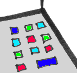
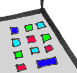
Das blinken lights

diff --git a/gamelib/scenes/bridge.py b/gamelib/scenes/bridge.py
@@ -1,10 +1,12 @@
 """Bridge where the final showdown with the AI occurs."""
 
+import random
+
 from albow.music import change_playlist, get_music, PlayList
 
 from gamelib.cursor import CursorSprite
 from gamelib.state import Scene, Item, Thing, Result, InteractText, \
-                          InteractNoImage, InteractRectUnion
+                          InteractNoImage, InteractRectUnion, InteractAnimated
 from gamelib.statehelpers import GenericDescThing
 from gamelib.scenes.scene_widgets import Door
 
@@ -35,6 +37,8 @@ class Bridge(Scene):
         self.add_thing(MassageChair())
         self.add_thing(StethoscopeThing())
         self.add_thing(BridgeComputer())
+        self.add_thing(LeftLights())
+        self.add_thing(RightLights())
 
     def enter(self):
         pieces = [get_music(x, prefix='sounds') for x in self.MUSIC]
@@ -159,6 +163,37 @@ class SuperconductorThing(Thing):
         self.scene.remove_thing(self)
         return Result("You pick up the stethoscope and verify that the doctor's "
                       "heart has stoped. Probably a while ago.")
+
+class BlinkingLights(Thing):
+
+    def get_description(self):
+        return random.choice([
+            "The lights flash in interesting patterns.",
+            "The flashing lights don't mean anything to you",
+            "The console lights flash and flicker",
+            ])
+
+class LeftLights(BlinkingLights):
+
+    NAME ='bridge.lights.1'
+
+    INTERACTS = {
+        "lights": InteractAnimated(176, 337, ["bridge_lights_1_1.png", "bridge_lights_1_2.png", "bridge_lights_1_3.png", "bridge_lights_1_2.png"], 5)
+    }
+
+    INITIAL = 'lights'
+
+class RightLights(BlinkingLights):
+
+    NAME ='bridge.lights.2'
+
+    INTERACTS = {
+        "lights": InteractAnimated(559, 332, ["bridge_lights_2_1.png", "bridge_lights_2_2.png", "bridge_lights_2_3.png", "bridge_lights_2_2.png"], 5)
+    }
+
+    INITIAL = 'lights'
+
+
 
 class ChairDetail(Scene):
 
